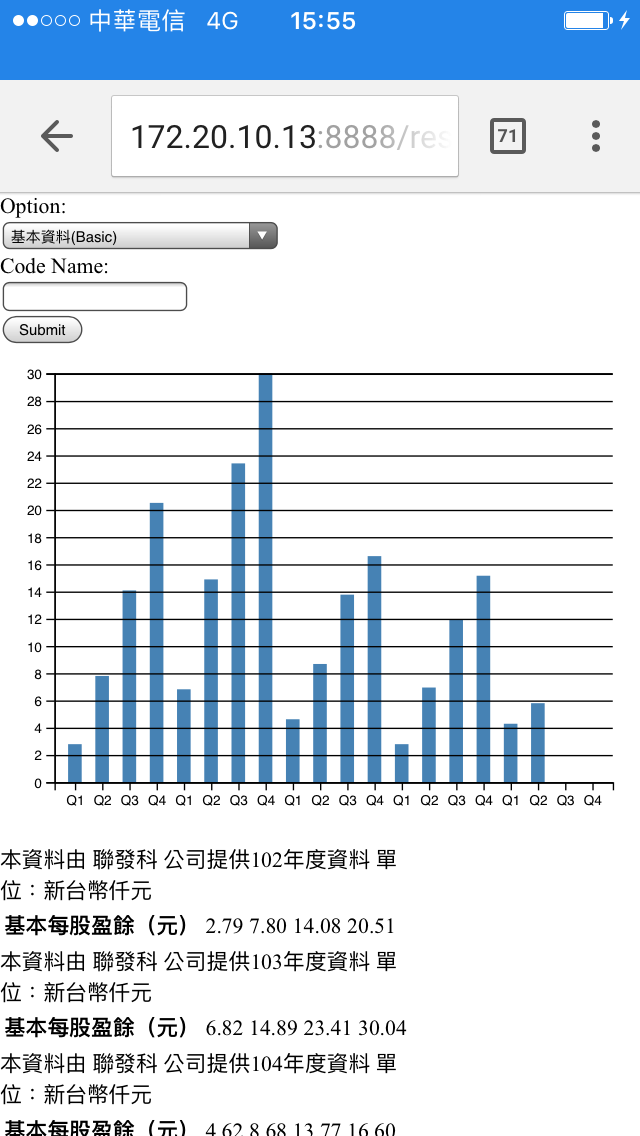
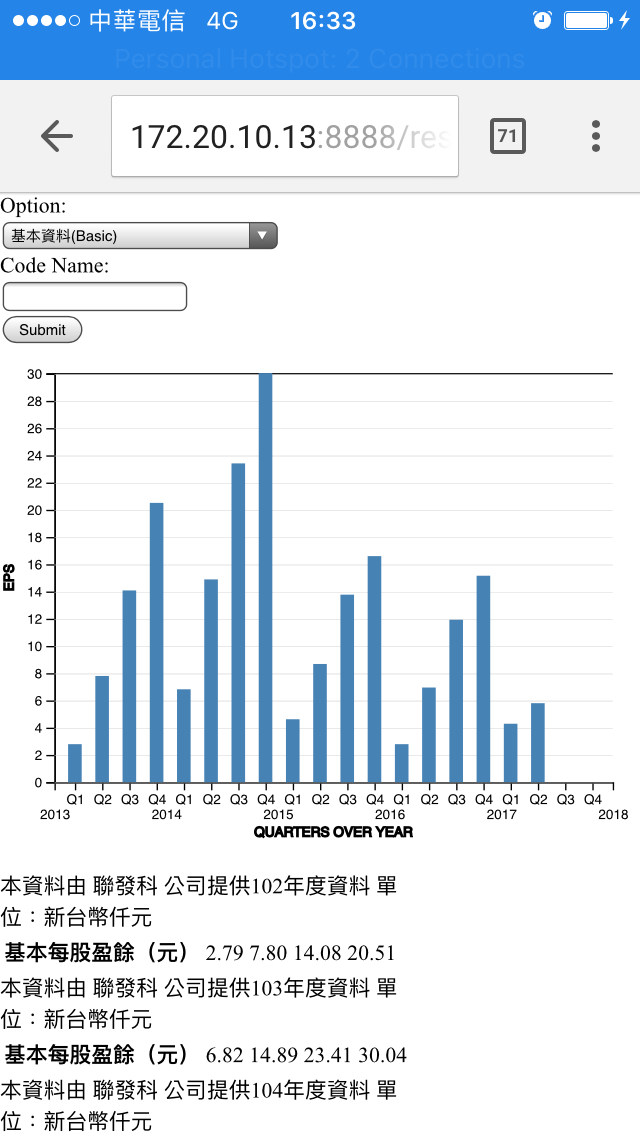
Update barchart template and demo image

diff --git a/static/js/barchart.js b/static/js/barchart.js
@@ -9,6 +9,7 @@ var unique_q_yr = ["1-1", "1-2", "1-3", "1-4",
                          "2-1", "2-2", "2-3", "2-4",
                          "3-1", "3-2", "3-3", "3-4",
                          "4-1", "4-2", "4-3"];
+var all_yrs = [2013, 2014, 2015, 2016, 2017];
 var data_arr = [1, 3.12, 4.65, 6.17,
                  1.34, 3.19, 5.38, 8.63,
                  2.53, 5.48, 9.07, 12.57,
@@ -40,6 +41,9 @@ if (typeof(json_dataArray) !== 'undefined') {
     }
     data_arr = acc_eps_arr;
     unique_q_yr = q_arr;
+    all_yrs = eps_yr;
+    all_yrs.push(d3.max(eps_yr) + 1);
+    console.log(all_yrs);
 } else {
     console.log("json_dataArray DO NOT Exist")
 }
@@ -51,16 +55,98 @@ var num_data = data_arr.length,
     bar_spacing = 20;
 
 var max_data = d3.max(data_arr);
-var margin = {top: 20, right: 20, bottom: 40, left: 40};
+var margin = {top: 20, right: 20, bottom: 60, left: 40};
 
 // Define svg element with atributes
-var svg = d3.select("body").append("svg")
-            .attr("height", (data_scale * max_data + margin.top + margin.bottom))
-            .attr("width", data_x_shift + bar_spacing * num_data + margin.left + margin.right);
+var svg = d3.select("body")
+            .append("svg")
+                .attr("height", (data_scale * max_data + margin.top + margin.bottom))
+                .attr("width", data_x_shift + bar_spacing * num_data + margin.left + margin.right);
 
 // Define the margin object with properties for the four sides (clockwise from the top, as in css)
 var graph_width = +svg.attr("width") - margin.left - margin.right,
     graph_height = +svg.attr("height") - margin.top - margin.bottom;
+
+/* [Tips]:
+ * 1. Draw the axes ealier than main chart to make layers in an order
+ */
+
+// Add the quarter x axis
+var x_scale_q = d3.scaleBand()
+                .domain(unique_q_yr)
+                .rangeRound([0, graph_width]);
+                //.paddingInner([0.1]);
+var func_x_axis_q = d3.axisBottom(x_scale_q)
+                    .tickValues(unique_q_yr)
+                    .tickFormat(function(d) {return "Q" + d.slice(-1);});
+var x_axis_q = svg.append("g")
+                    .attr("class", "x axis q")
+                    .attr("transform", "translate(" + margin.left + ", " + (svg.attr("height") - margin.bottom) + ")")
+                    .call(func_x_axis_q);
+// Add the year x axis
+var x_extent_yr = d3.extent(all_yrs);
+var x_scale_yr = d3.scaleTime()
+                    .domain(x_extent_yr)
+                    .rangeRound([0, graph_width]);
+var func_x_axis_yr = d3.axisBottom(x_scale_yr)
+                        // Turn off visibility of ticks
+                        .tickSize(0)
+                        .tickValues(all_yrs)
+                        .tickPadding(margin.bottom/3)
+                        .tickFormat(function(d) {return (d)});
+var x_axis_yr = svg.append("g")
+                    .attr("class", "x axis yr")
+                    .attr("transform", "translate(" + margin.left + ", " + (svg.attr("height") - margin.bottom) + ")")
+                    .call(func_x_axis_yr);
+// Turn of the base of axis
+x_axis_yr.select("path")
+            .style("opacity", "0");
+
+x_axis_q.append("text")
+        //.attr("class", "y_axis_name")
+        .attr("y", margin.bottom/2)
+        .attr("x", graph_width/2)
+        .attr("dy", "1em")
+        .style("text-anchor", "middle")
+        .style("stroke", "black")
+        .text("QUARTERS OVER YEAR");
+
+// Add the y axis
+var y_extent = d3.extent(data_arr);
+var y_scale = d3.scaleLinear()
+                .domain(y_extent)
+                .range([graph_height, 0]);
+var func_y_axis = d3.axisLeft(y_scale);
+var y_axis = svg.append("g")
+                .attr("class", "y axis")
+                .attr("transform", "translate(" + margin.left + ", " + margin.top + ")")
+                .call(func_y_axis);
+
+// Add the y axis grid
+var func_y_grid = func_y_axis.tickFormat("")
+                            .tickSize(-graph_width, 0);
+
+var y_axis_grid = svg.append("g")
+                .attr("class", "grid")
+                .attr("transform", "translate(" + margin.left + ", " + margin.top + ")")
+                .style("fill", "none")
+                .call(func_y_grid);
+
+// Style the grid
+y_axis_grid.selectAll(".tick line")
+            .style("stroke", "lightgrey")
+            .style("opacity", "0.5");
+            //.style("stroke-dasharray", "10,1");
+
+y_axis.append("text")
+        //.attr("class", "y_axis_name")
+        .attr("transform", "rotate(-90)")
+        .attr("y", 0 - margin.left)
+        .attr("x", 0 - (graph_height/2))
+        .attr("dy", "1em")
+        .style("text-anchor", "middle")
+        .style("stroke", "black")
+        .text("EPS");
 
 // Define a g element in svg that translates the orgin to the top-left corner of the graph area
 var graph = svg.append("g")
@@ -75,56 +161,3 @@ graph.selectAll("rect")
         .attr("width", bar_width)
         .attr("x", function(d, i) {return (i * bar_spacing) + data_x_shift;})
         .attr("y", function(d, i) {return graph_height - (d * data_scale);});
-        // Decide by you to style shapes in css or js
-        //.attr("stroke", "black");
-
-
-// Add the x Axis
-/*
-var x_extent = d3.extent(data_arr, function(i) {return (i)});
-var x_scale = d3.scaleLinear()
-                .domain(x_extent)
-                .range([0, graph_width + margin.right]);
-*/
-var x_scale = d3.scaleBand()
-            .domain(unique_q_yr)
-            .rangeRound([0, graph_width]);
-            //.paddingInner([0.1]);
-var quarter_x_axis = d3.axisBottom(x_scale)
-            .tickValues(unique_q_yr)
-            .tickFormat(function(d) {return "Q" + d.slice(-1);});
-var x_axis = svg.append("g")
-                .attr("class", "x axis")
-                .attr("transform", "translate(" + margin.left + ", " + (svg.attr("height") - margin.bottom) + ")")
-                .call(quarter_x_axis);
-// Add the y Axis
-var y_extent = d3.extent(data_arr, function(d) {return (d);});
-var y_scale = d3.scaleLinear()
-                .domain(y_extent)
-                .range([graph_height, 0]);
-var eps_y_axis = d3.axisLeft(y_scale);
-var y_axis = svg.append("g")
-                .attr("class", "y axis")
-                .attr("transform", "translate(" + margin.left + ", " + margin.top + ")")
-                .call(eps_y_axis);
-
-// Add the y Axis grid
-var eps_y_grid = eps_y_axis
-                        .tickFormat("")
-                        .tickSize(-graph_width, 0);
-var y_axis_grid = svg.append("g")
-                .attr("class", "y axis grid")
-                .attr("transform", "translate(" + margin.left + ", " + margin.top + ")")
-                .style("fill", "none")
-                .style("stroke", "lightgrey")
-                .call(eps_y_grid);
-
-y_axis.append("text")
-        //.attr("class", "y_axis_name")
-        .attr("transform", "rotate(-90)")
-        .attr("y", 0 - margin.left)
-        .attr("x",0 - (graph_height / 2))
-        .attr("dy", "1em")
-        .style("text-anchor", "middle")
-        .text("EPS");
-
